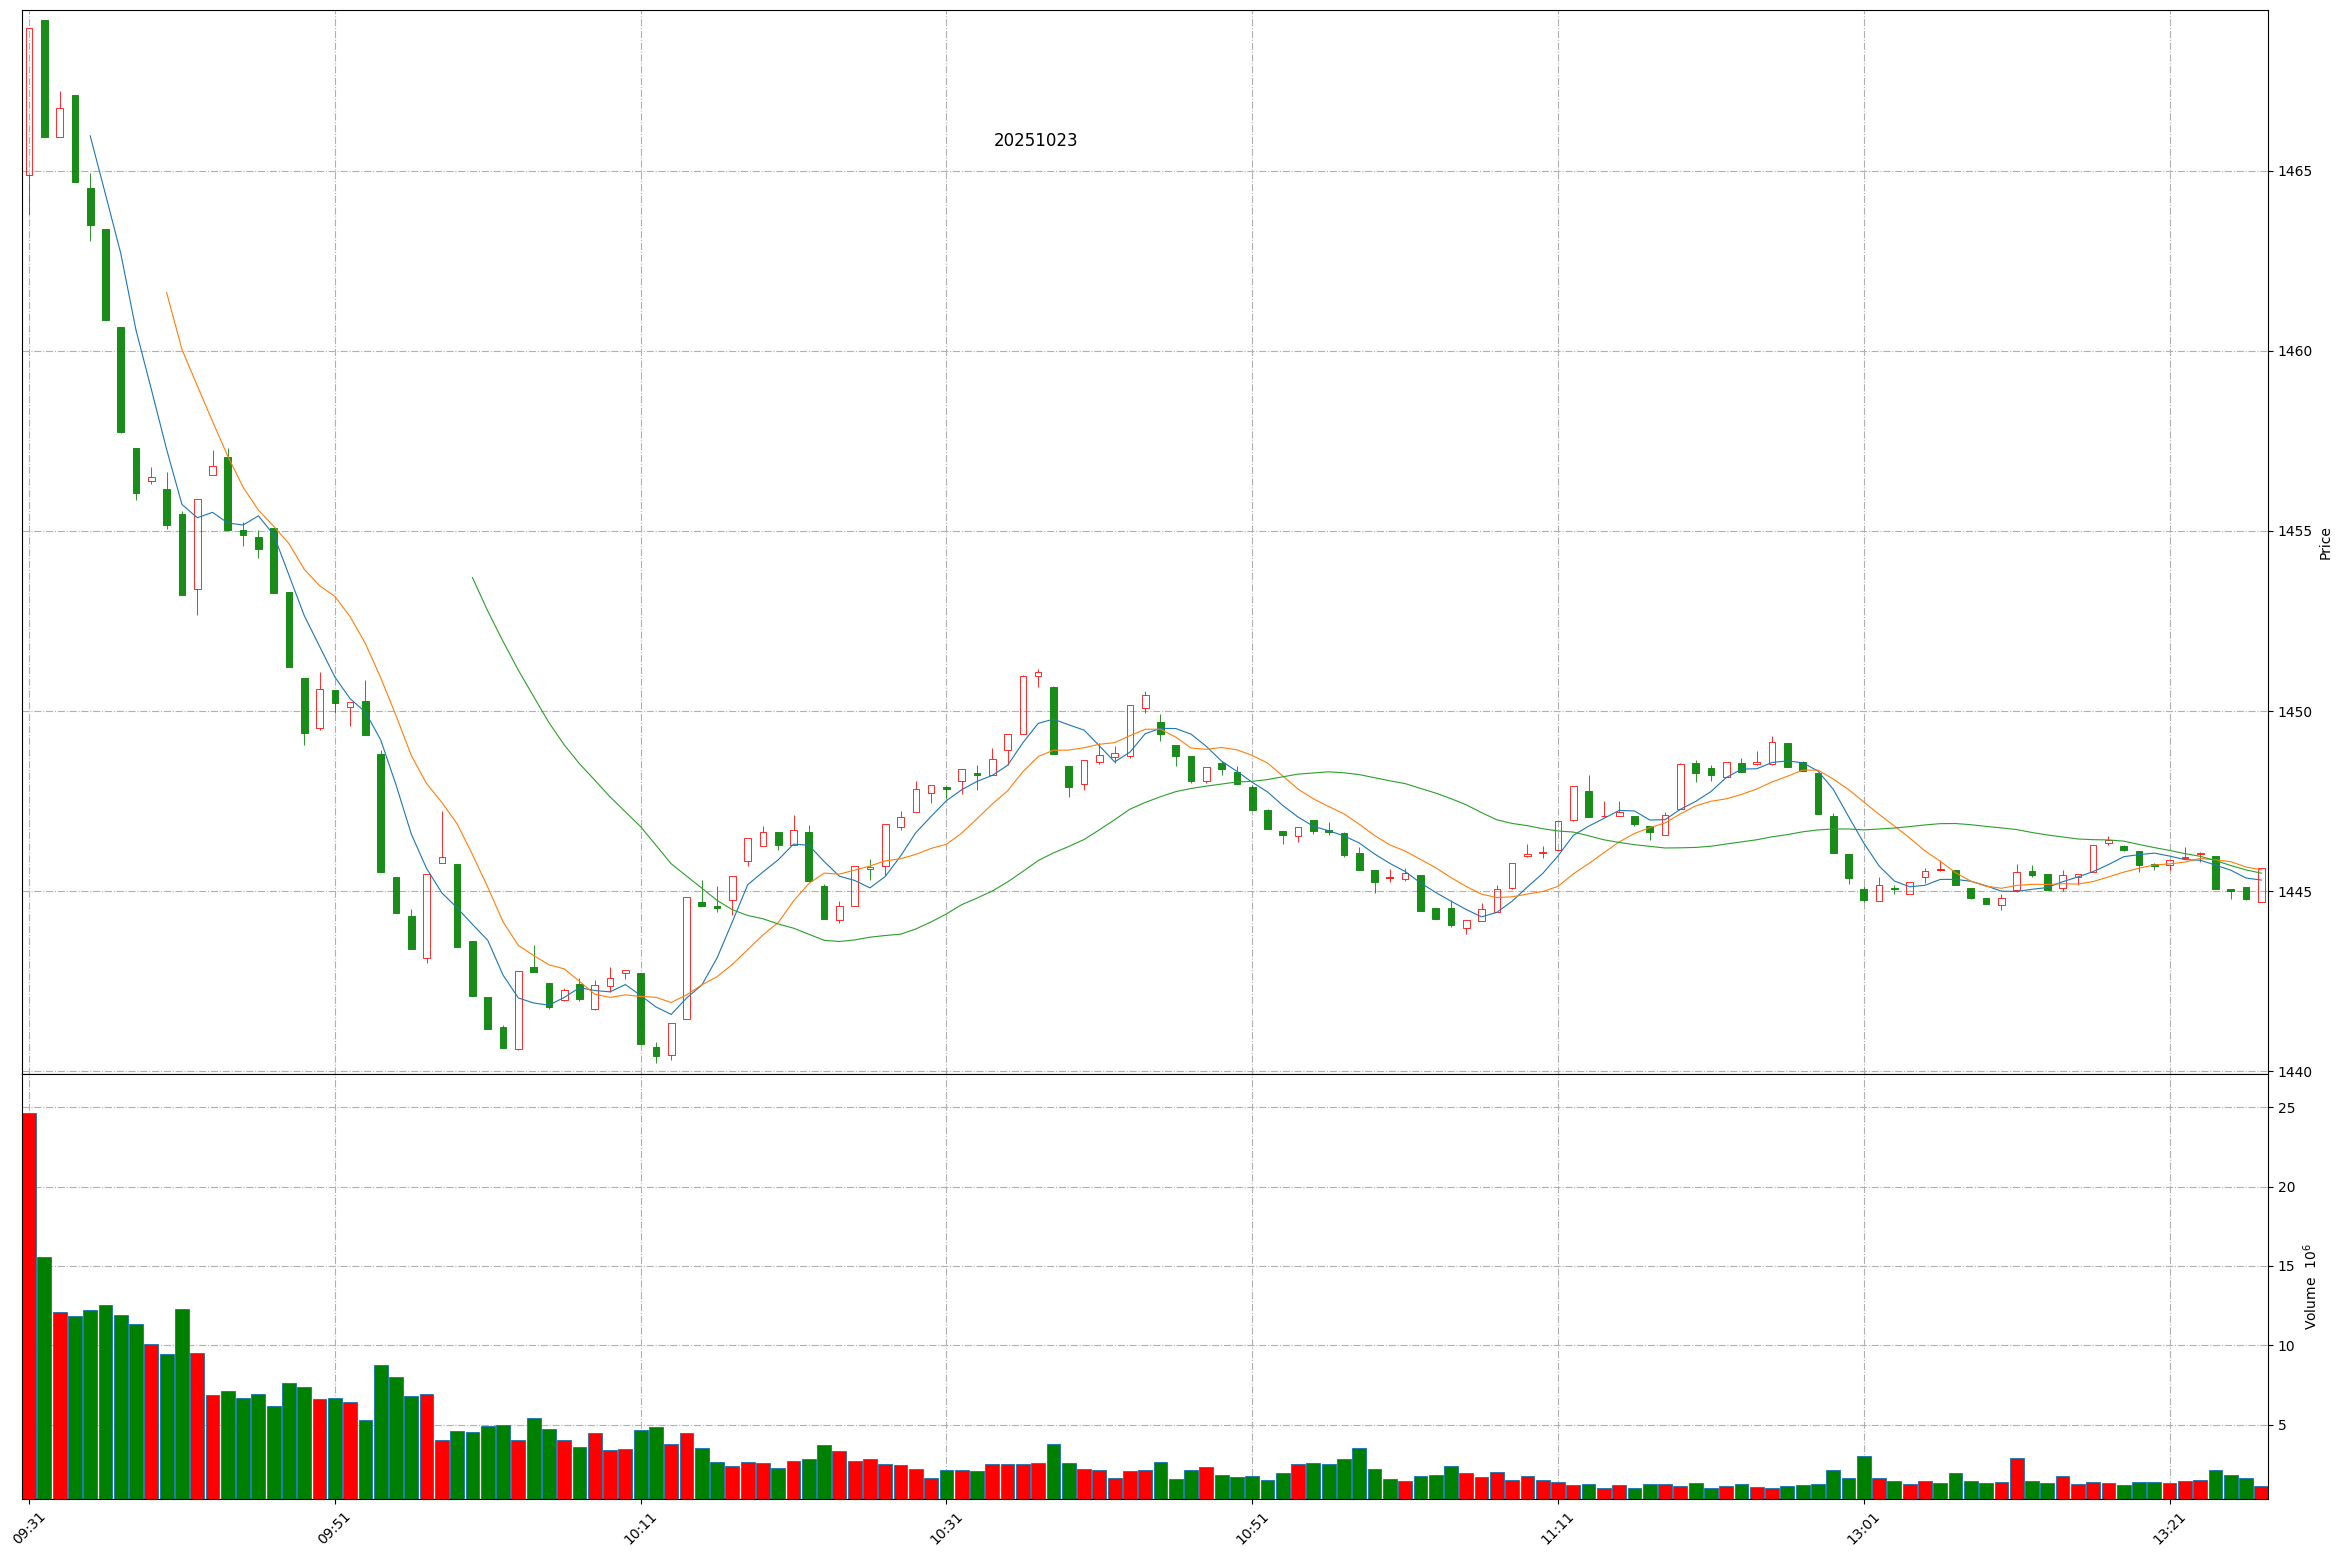
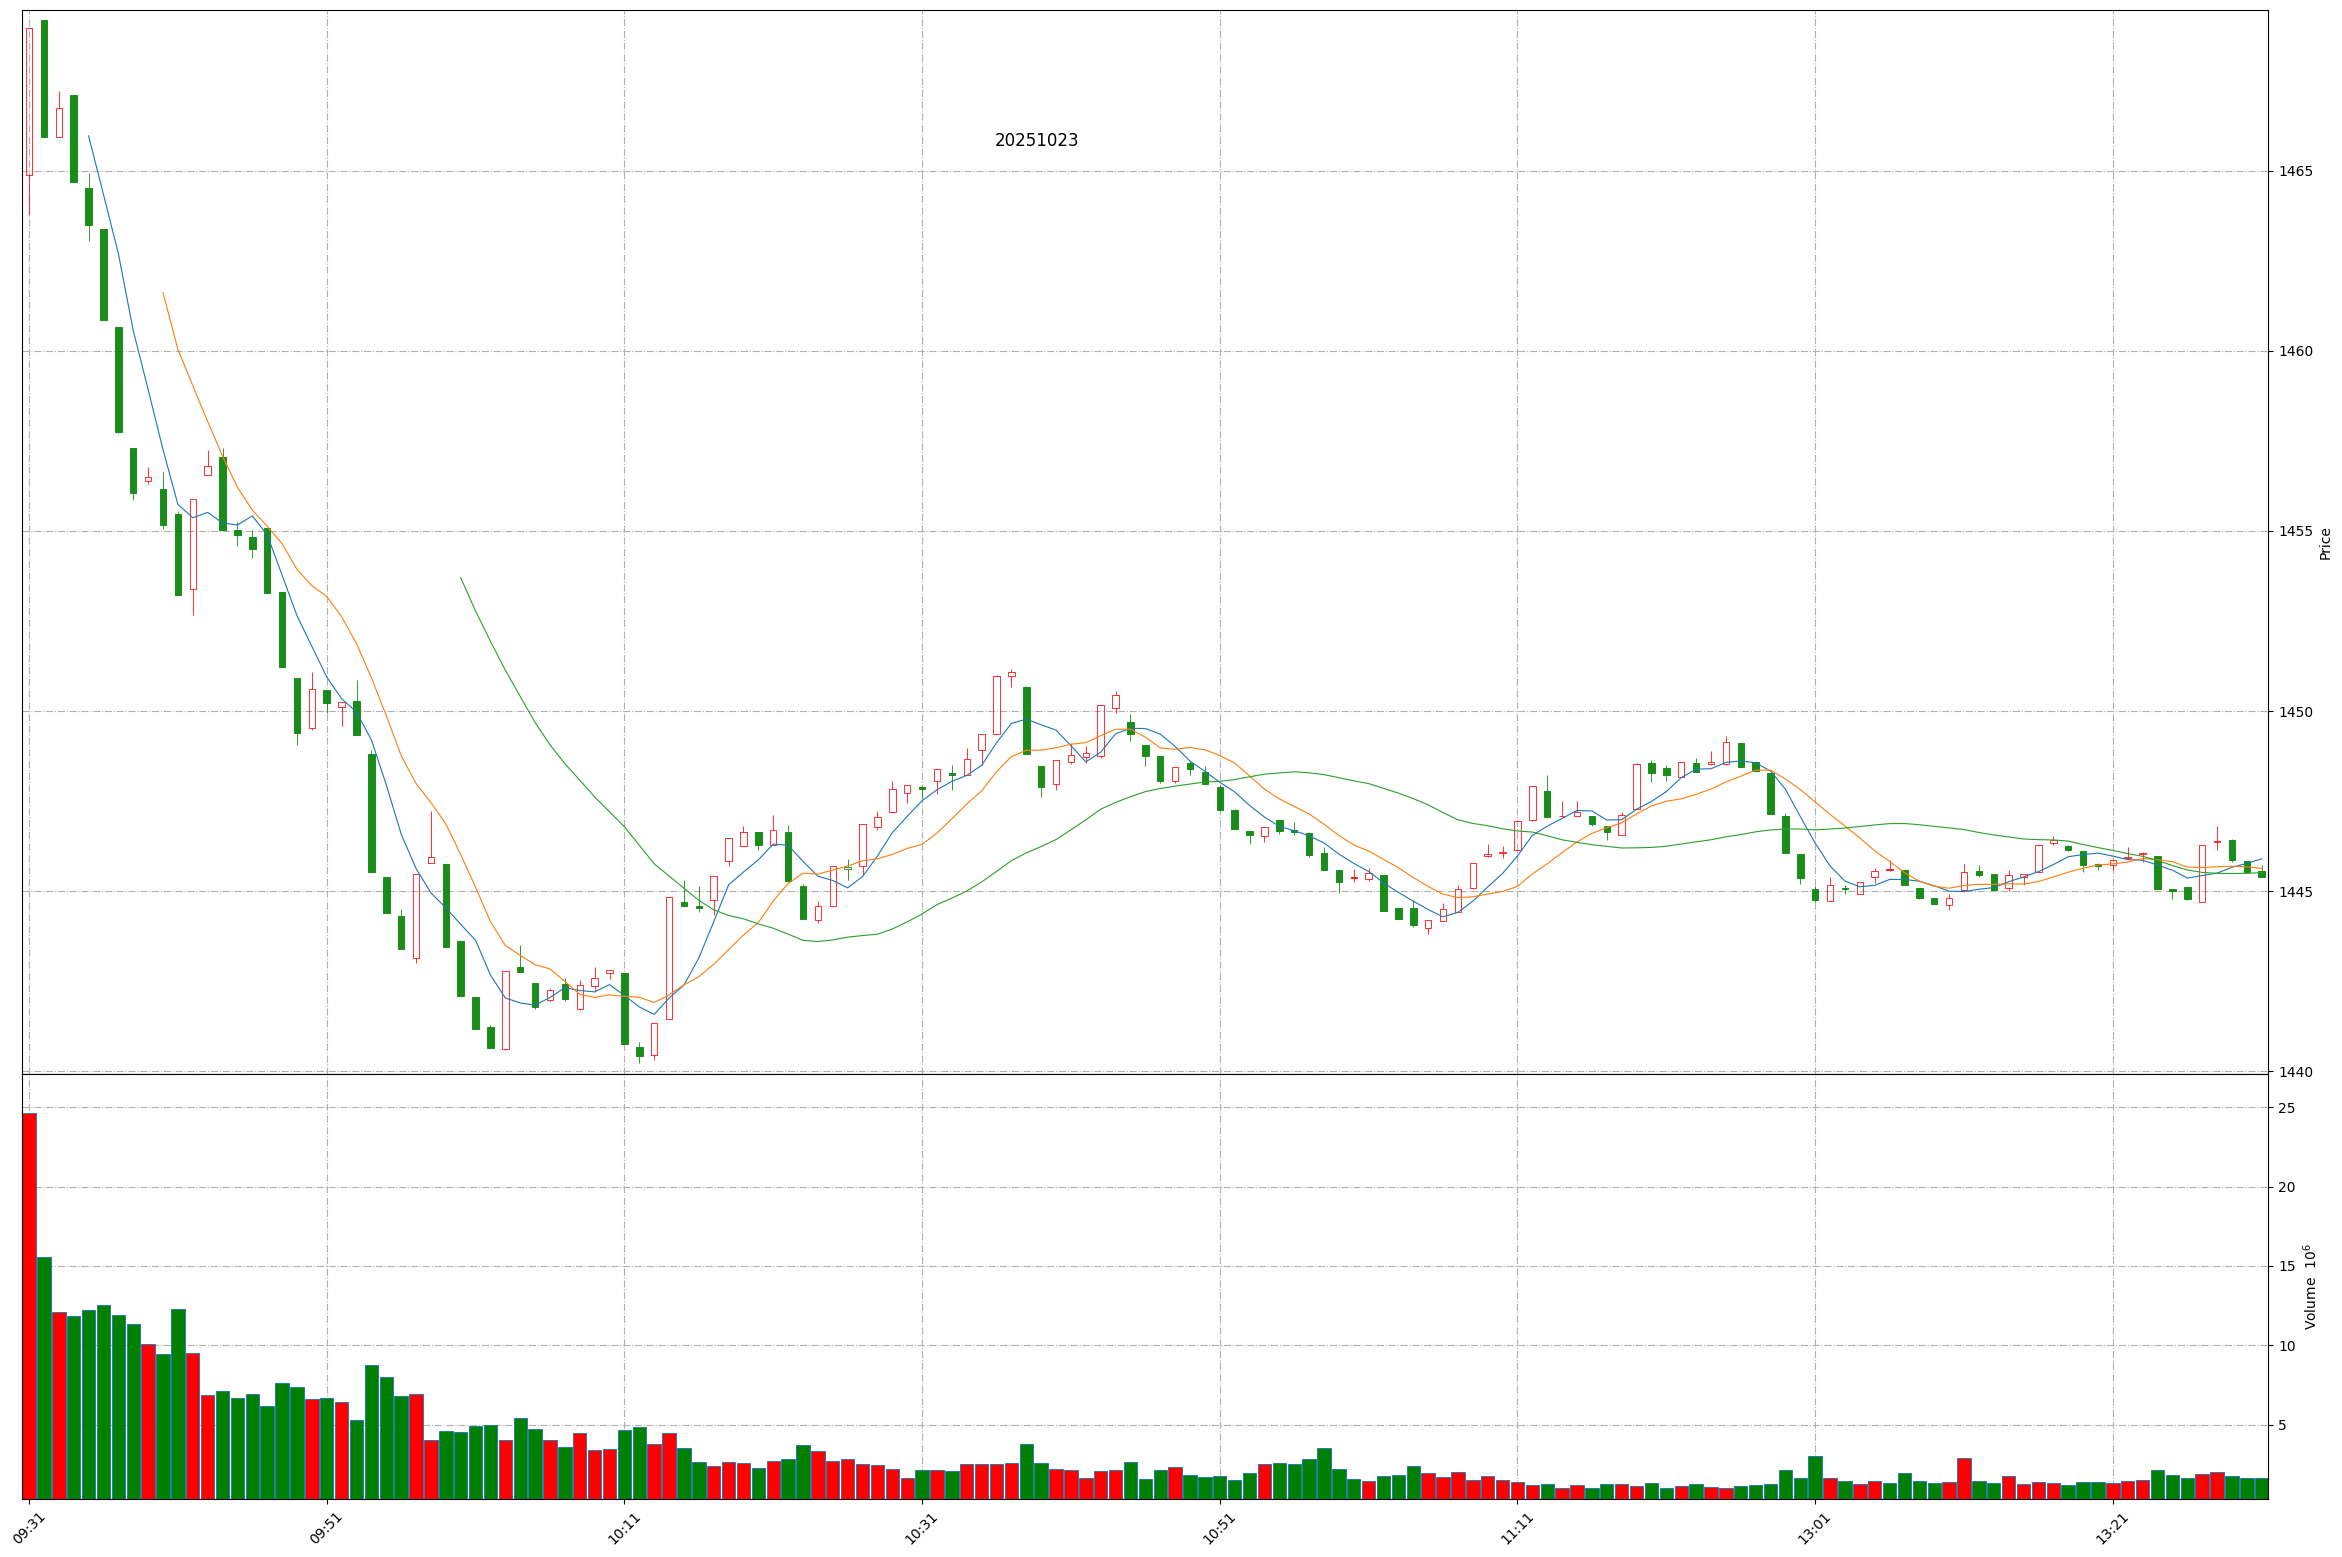
Github action update at 2025-10-23 13:31:08.

diff --git a/README.md b/README.md
@@ -1,11 +1,11 @@
 
 # Daily-A-share-market-quotes 每日 A 股指数（5min 更新）- 20251023
 
-### 上证指数 20251023 13:26
+### 上证指数 20251023 13:31
 ![](./fig/2025/10/20251023-sh000001.png)
 
-### 深证成指 20251023 13:26
+### 深证成指 20251023 13:31
 ![](./fig/2025/10/20251023-sz399001.png)
 
-### 北证50 20251023 13:26
+### 北证50 20251023 13:31
 ![](./fig/2025/10/20251023-bj899050.png)
